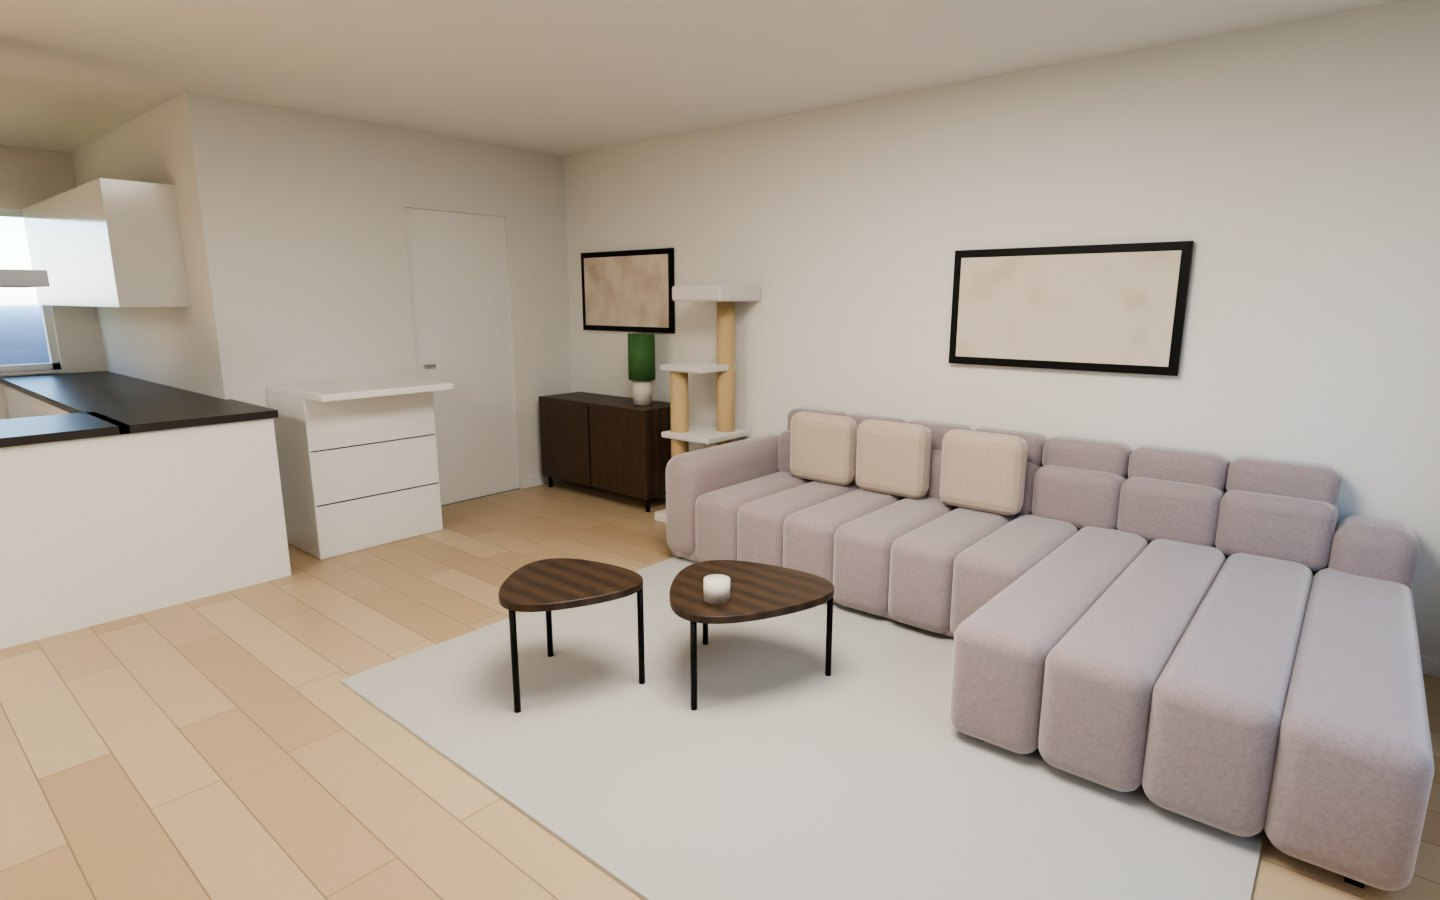
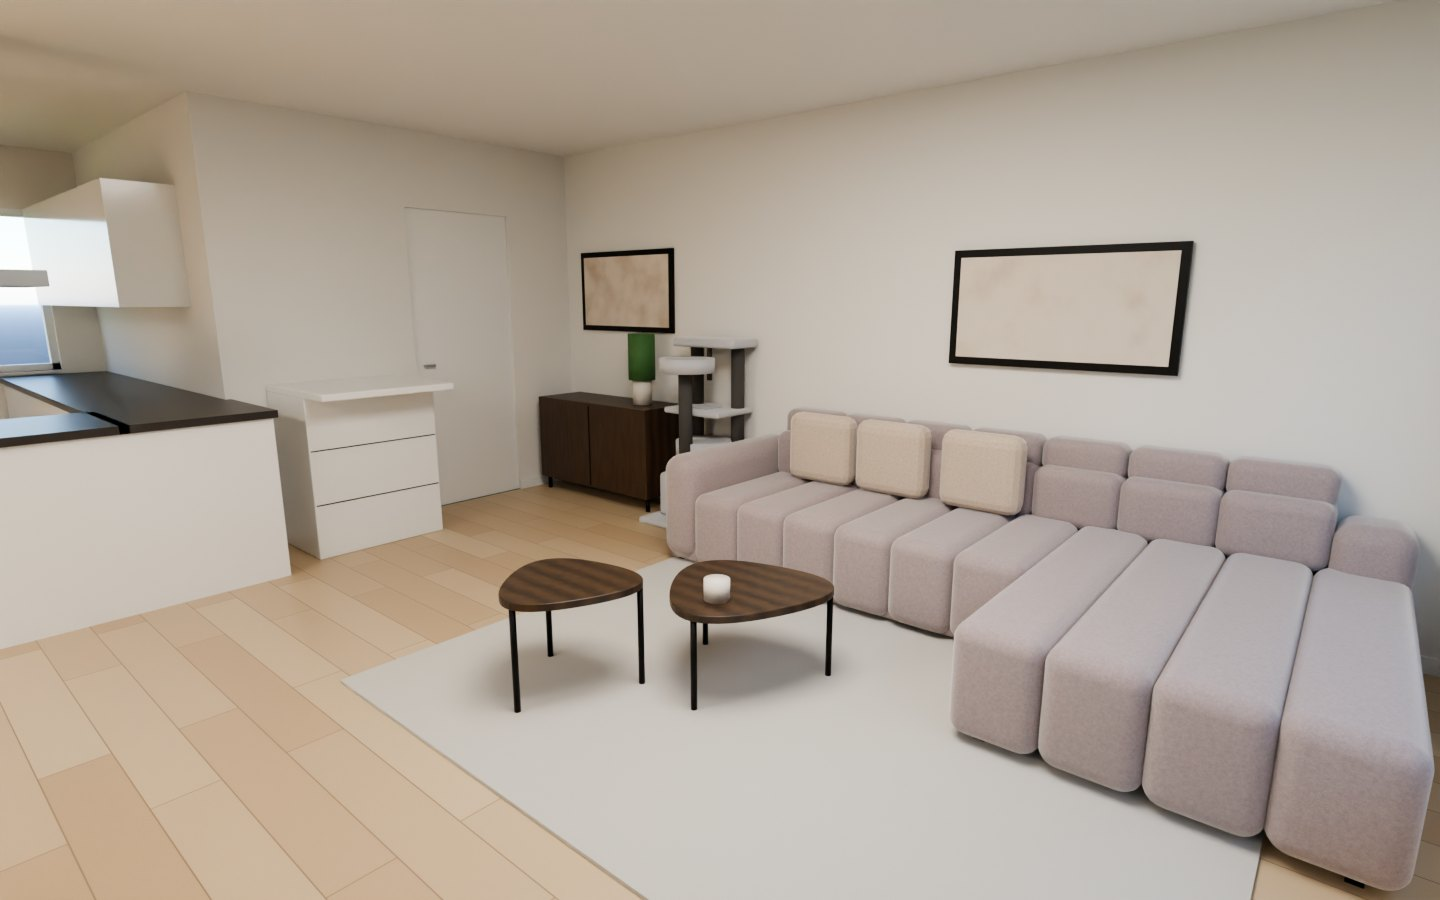
Add files via upload

Changed region(s): [[0.4375, 0.3111, 0.5312, 0.4978], [0.4375, 0.5289, 0.4688, 0.5911]]

diff --git a/index.html b/index.html
@@ -119,7 +119,7 @@ ol.ask{margin:0;padding-left:20px;display:grid;gap:6px}
   <div class="legend">
     <span><i style="background:var(--sofa)"></i>Haco Jet</span>
     <span><i style="background:var(--store)"></i>Bestå, donkerbruin</span>
-    <span><i style="background:var(--cat)"></i>Krabpaal (aanname 50 × 50)</span>
+    <span><i style="background:var(--cat)"></i>Krabpaal Adori Savannah (60 × 60)</span>
     <span><i style="background:var(--table)"></i>Budrio-salontafels</span>
     <span><i style="background:var(--sheet);border-color:var(--ink)"></i>Sundvik (wit)</span>
     <span><i style="background:var(--dine)"></i>Eettafel James</span>
@@ -185,7 +185,7 @@ ol.ask{margin:0;padding-left:20px;display:grid;gap:6px}
       <tr><td>SUNDVIK commode/ladekast, wit (<a href="https://www.ikea.com/nl/nl/p/sundvik-commode-ladekast-wit-30591299/" target="_blank" rel="noopener">IKEA</a>)</td><td class="num">78 × 54–79 × 99–108</td><td>Zuidwand tussen entreedeur en keuken, plek van het oude bureautje. Getekend met de maximale diepte van 79 cm</td><td><span class="st zeker">in bezit</span></td></tr>
       <tr><td>Eettafel James, ovaal, mangohout walnoot, mat zwart metalen onderstel (<a href="https://aq-living.com/products/eettafel-ovaal-mangohout-180cm-james-walnoot-bruin" target="_blank" rel="noopener">AQ-Living</a>)</td><td class="num">180 × 100 × 76</td><td>Eethoek, haaks op de gevel met de kop 23 cm van het raam, midden op ≈ (570, 360)</td><td><span class="st schat">aankoop</span></td></tr>
       <tr><td>Eetkamerstoel Monaco antraciet, 6× (<a href="https://www.bol.com/be/nl/p/eetkamerstoel-monaco-antraciet/9200000099889948/" target="_blank" rel="noopener">bol</a>)</td><td class="num">53 × 62 × 87 · zit 48</td><td>4 aan tafel, 2 per lange zijde, aangeschoven. De andere 2 staan niet in de woonkamer</td><td><span class="st zeker">in bezit</span></td></tr>
-      <tr><td>Krabpaal</td><td class="num">50 × 50 × 150</td><td>Linkerwand, direct naast de armleuning</td><td><span class="st onb">aanname</span></td></tr>
+      <tr><td>Krabpaal Adori Savannah, lichtgrijs/donkergrijs (<a href="https://www.petsplace.nl/adori-krabpaal-savannah-krabpalen-m-8711621962883-pps?color_calc=355018" target="_blank" rel="noopener">Pets Place</a>)</td><td class="num">60 × 60 × 120–130</td><td>Linkerwand, direct naast de armleuning, met de opening van het huisje naar de kamer</td><td><span class="st zeker">gekozen</span></td></tr>
       <tr><td>Tv, 65 inch</td><td class="num">≈ 145 × 83</td><td>Aan de muur boven het tv-meubel</td><td><span class="st schat">advies</span></td></tr>
     </tbody>
   </table></div>
@@ -228,7 +228,7 @@ ol.ask{margin:0;padding-left:20px;display:grid;gap:6px}
       <ul>
         <li>De krabpaal staat precies waar de kat anders aan de armleuning zou krabben</li>
         <li>Dressoir bij de entree, handig voor sleutels en post</li>
-        <li>Krap: 10 en 15 cm rond de krabpaal, dus een voet van maximaal ±70 cm</li>
+        <li>Krap: 5 cm tot de armleuning en 10 cm tot het dressoir</li>
       </ul>
     </div>
     <div class="opt">
@@ -257,7 +257,7 @@ ol.ask{margin:0;padding-left:20px;display:grid;gap:6px}
   <div class="eyebrow">D · Praktische controle</div>
   <h2 id="h-chk">Gecontroleerd op maat</h2>
   <div class="chk">
-    <div><span class="y">✓</span><span><strong>Linkerwand (560):</strong> 30 vrij bij het raam + 325 bank + 10 + 50 krabpaal + 15 + 120 dressoir + 10 tot de hoek = 560. De krabpaal en het dressoir hebben samen 35 cm speling. Een krabpaal tot ±70 cm breed past, of een dressoir tot ±150 cm (er bestaan geen tussenmaten, dus 120 of 180, en 180 past niet).</span></div>
+    <div><span class="y">✓</span><span><strong>Linkerwand (560):</strong> 30 vrij bij het raam + 325 bank + 5 + 60 krabpaal (Adori Savannah) + 10 + 120 dressoir + 10 tot de hoek = 560. Het past precies. Er is nog 25 cm speling over, dus een dressoir van 180 past niet.</span></div>
     <div><span class="y">✓</span><span><strong>Bank en raam:</strong> de divan blijft 30 cm van de raamwand, genoeg voor gordijnen. De bekende radiator zit rechts van de divan (≈235–320) en blijft vrij. Of er onder het linkerdeel van het raam ook een radiator zit, is nog onbekend. Zo ja, dan zit die achter het open einde van de divan, en houdt 30 cm de warmte vrij.</span></div>
     <div><span class="y">✓</span><span><strong>Salontafels:</strong> 45 cm van de zitting tot de grote tafel, en 40 cm van het einde van de divan. Van de kleine tafel tot het tv-meubel blijft 143 cm vrij, dus je kunt makkelijk naar het hoekraam lopen.</span></div>
     <div><span class="y">✓</span><span><strong>Tv-meubel (zwevend):</strong> 180 cm op de muur van 247: 10 cm tot het zijraampje en 11 cm tot het einde van de muur. 42 cm diep. Doordat hij zweeft, kun je eronder stofzuigen. Een kat die erop springt zit op 58 cm hoogte. Houd de tv dus achter of boven het meubel.</span></div>
@@ -294,8 +294,7 @@ ol.ask{margin:0;padding-left:20px;display:grid;gap:6px}
   <div class="eyebrow">Open punten</div>
   <h2 id="h-ask">Nog te checken</h2>
   <ol class="ask">
-    <li><strong>Krabpaal:</strong> voetmaat (getekend 50 × 50, max ±70 cm breed).</li>
-    <li><strong>Radiator:</strong> zit er een onder het linkerdeel van het grote raam?</li>
+        <li><strong>Radiator:</strong> zit er een onder het linkerdeel van het grote raam?</li>
     <li><strong>Sundvik:</strong> IKEA geeft een diepte van 54–79 cm en een hoogte van 99–108 cm. Ik heb met de maximale diepte van 79 gerekend. Gebruiken jullie hem zonder aankleedblad, controleer dan de werkelijke diepte; dat geeft alleen meer ruimte.</li>
     <li><strong>Eethoek:</strong> zit er een radiator onder het raam in de eethoek, waar zit het plafondlichtpunt, en hoe ziet het onderstel van de James eruit?</li>
     <li><strong>Entreedeur:</strong> draait die de woonkamer in, en aan welke kant zit het scharnier?</li>
@@ -333,7 +332,7 @@ const WIN=[ // openingen: [x1,y1,x2,y2] op wandlijn
   {a:[530,247],b:[585,247],k:"raam"},{a:[625,247],b:[845,247],k:"deur2"},{a:[56,560],b:[136,560],k:"deur"}];
 const F={ // indeling v3
   sund:[155,481,233,560],
-  krab:[0,365,50,415], dres:[0,430,42,550], tv:[415,56,457,236], big:[150,190,232,276], small:[205,245,272,316], rug:[70,60,290,350],
+  krab:[0,360,60,420], dres:[0,430,42,550], tv:[415,56,457,236], big:[150,190,232,276], small:[205,245,272,316], rug:[70,60,290,350],
   sofaX:0, sofaY:30
 };
 /* organische Budrio-tafel: afgeronde driehoek binnen kader [x1,y1,x2,y2] (contour globaal) */
@@ -462,7 +461,7 @@ function drawPlan(){
   el("path",{d:blobPath(F.small),fill:css("--table"),stroke:css("--sheet"),"stroke-width":2},g);
   // labels
   label(g,21,490,"BESTÅ 120",13,css("--sheet"),700,"middle",true).setAttribute("transform","rotate(-90 21 490)");
-  label(g,58,394,"krabpaal",14,css("--cat"),700,"start");
+  label(g,68,394,"krabpaal",14,css("--cat"),700,"start");
   label(g,430,146,"BESTÅ 180 zwevend",12,css("--sheet"),700,"middle",true).setAttribute("transform","rotate(90 430 146)");
   label(g,445,250,"tv 65″",12,css("--ink"),600,"end");
   label(g,95,95,"DIVAN",17,css("--sofa-ink"),800,"middle",true);
@@ -596,10 +595,14 @@ function build3D(){
   [[D[1]+6],[D[3]-6]].forEach(z=>{box(3,10,3,D[0]+6,5,z[0],mats.leg);box(3,10,3,D[2]-6,5,z[0],mats.leg);});
   // krabpaal
   const K=F.krab,kx=(K[0]+K[2])/2,kz=(K[1]+K[3])/2;
-  box(50,6,50,kx,3,kz,mats.catPlat);
-  const post=(h,x,z)=>{const c=new THREE.Mesh(new THREE.CylinderGeometry(6,6,h,16),mats.cat);c.position.set(x,h/2,z);c.castShadow=true;scene.add(c);};
-  post(150,kx-10,kz-10);post(105,kx+12,kz+10);
-  box(42,4,42,kx,60,kz,mats.catPlat);box(36,4,36,kx+4,105,kz+4,mats.catPlat);box(40,10,40,kx-6,152,kz-6,mats.catPlat);
+  {// Adori Savannah 60x60x120
+  const kg=M(0xb7b9bd,1),kd=M(0x4a4846,1),kx0=K[0],kz0=K[1];
+  box(60,4,60,kx0+30,2,kz0+30,kg);box(42,30,46,kx0+26,19,kz0+30,kg);
+  const post=(x,z,y0,y1)=>{const c=new THREE.Mesh(new THREE.CylinderGeometry(4.5,4.5,y1-y0,16),kd);c.position.set(kx0+x,(y0+y1)/2,kz0+z);c.castShadow=true;scene.add(c);};
+  post(12,12,34,118);post(12,48,34,118);post(44,30,34,103);
+  const bowl=(x,z,r,y)=>{const c=new THREE.Mesh(new THREE.CylinderGeometry(r,r,10,24),kg);c.position.set(kx0+x,y,kz0+z);c.castShadow=true;scene.add(c);};
+  bowl(26,30,19,51);bowl(42,30,18,107);
+  box(37,4,48,kx0+21.5,76,kz0+30,kg);box(27,6,54,kx0+14.5,121,kz0+30,kg);}
   // tv-meubel BESTÅ 180x42x38 zwevend (onderkant 20)
   const V=F.tv;box(V[2]-V[0],38,V[3]-V[1],(V[0]+V[2])/2,20+19,(V[1]+V[3])/2,mats.dres);
   for(let k=1;k<3;k++)box(1,36,1,V[0]-0.5,39,V[1]+(V[3]-V[1])*k/3,mats.frameB,false);
@@ -647,7 +650,7 @@ function build3D(){
   const labels=[];
   const mkLabel=(txt,x,y,z)=>{const c=document.createElement("canvas");c.width=512;c.height=96;const g=c.getContext("2d");g.fillStyle="rgba(31,42,46,.86)";g.fillRect(0,0,512,96);g.fillStyle="#fff";g.font="600 44px Public Sans, system-ui, sans-serif";g.textAlign="center";g.textBaseline="middle";g.fillText(txt,256,50);
     const sp=new THREE.Sprite(new THREE.SpriteMaterial({map:new THREE.CanvasTexture(c),depthTest:false}));sp.scale.set(80,15,1);sp.position.set(x,y,z);sp.renderOrder=10;scene.add(sp);labels.push(sp);};
-  mkLabel("Haco Jet",60,115,270);mkLabel("Divan",110,80,90);mkLabel("Bestå-dressoir",21,110,490);mkLabel("Krabpaal",25,185,390);mkLabel("Bestå zwevend + tv 65″",430,185,146);mkLabel("Budrio",200,70,250);mkLabel("Sundvik",194,135,520);mkLabel("Eettafel James",570,120,360);
+  mkLabel("Haco Jet",60,115,270);mkLabel("Divan",110,80,90);mkLabel("Bestå-dressoir",21,110,490);mkLabel("Krabpaal",30,145,390);mkLabel("Bestå zwevend + tv 65″",430,185,146);mkLabel("Budrio",200,70,250);mkLabel("Sundvik",194,135,520);mkLabel("Eettafel James",570,120,360);
   // licht
   scene.add(new THREE.HemisphereLight(0xffffff,0xb9a789,0.75));
   const sun=new THREE.DirectionalLight(0xfff3e0,0.75);sun.position.set(250,520,-700);sun.target.position.set(260,0,280);scene.add(sun.target);
